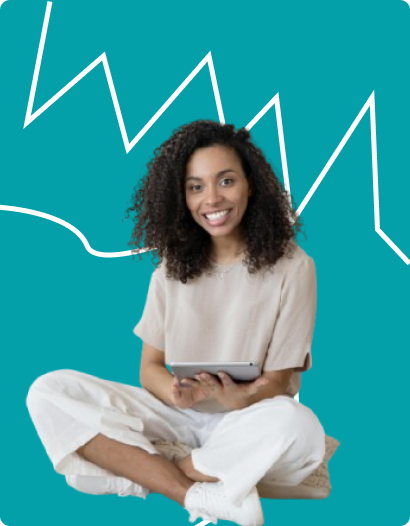
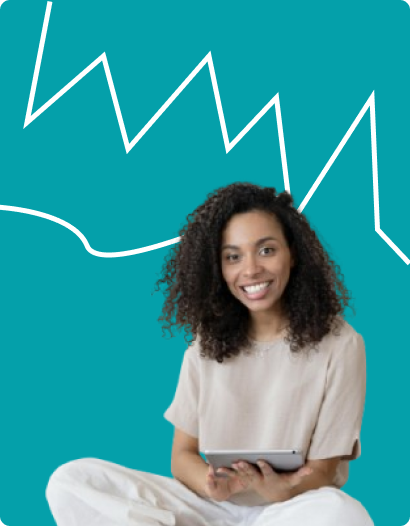
update

diff --git a/src/App.css b/src/App.css
@@ -355,7 +355,7 @@ nav ul li {
 }
 
 .imgPart img {
-  width: 100%;
+  width: 95%;
   background-color: transparent;
 }
 
